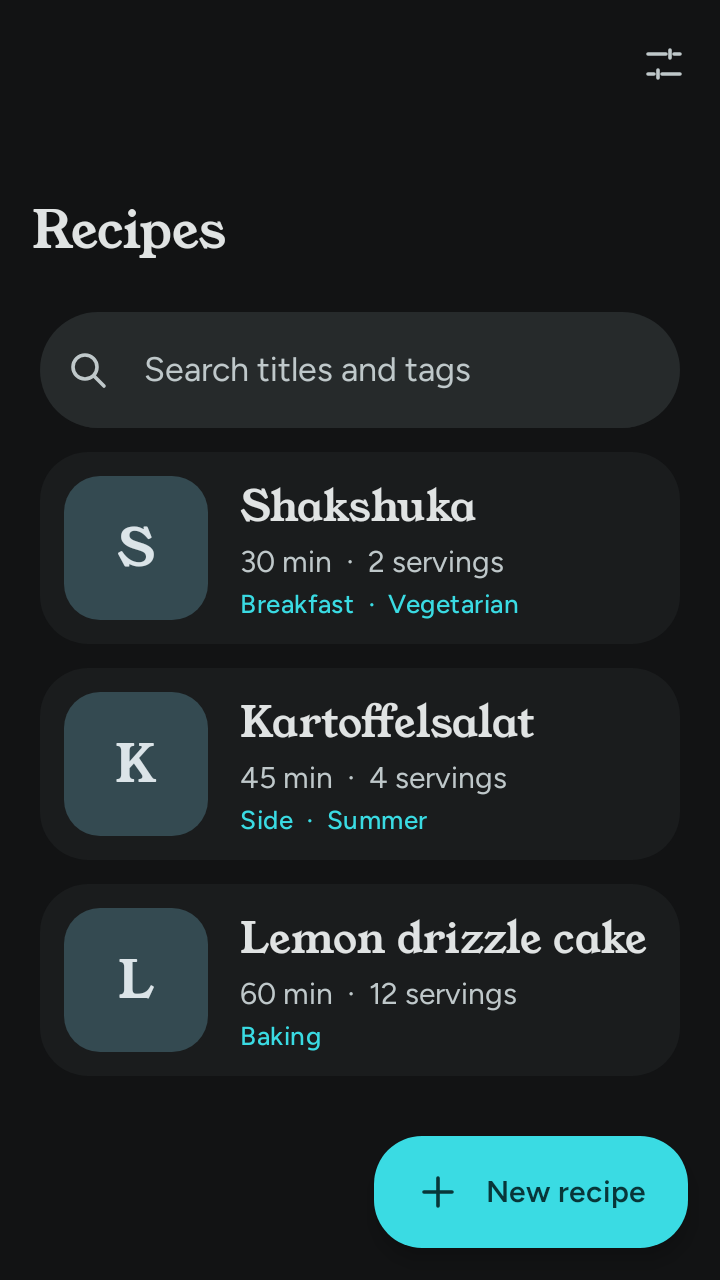
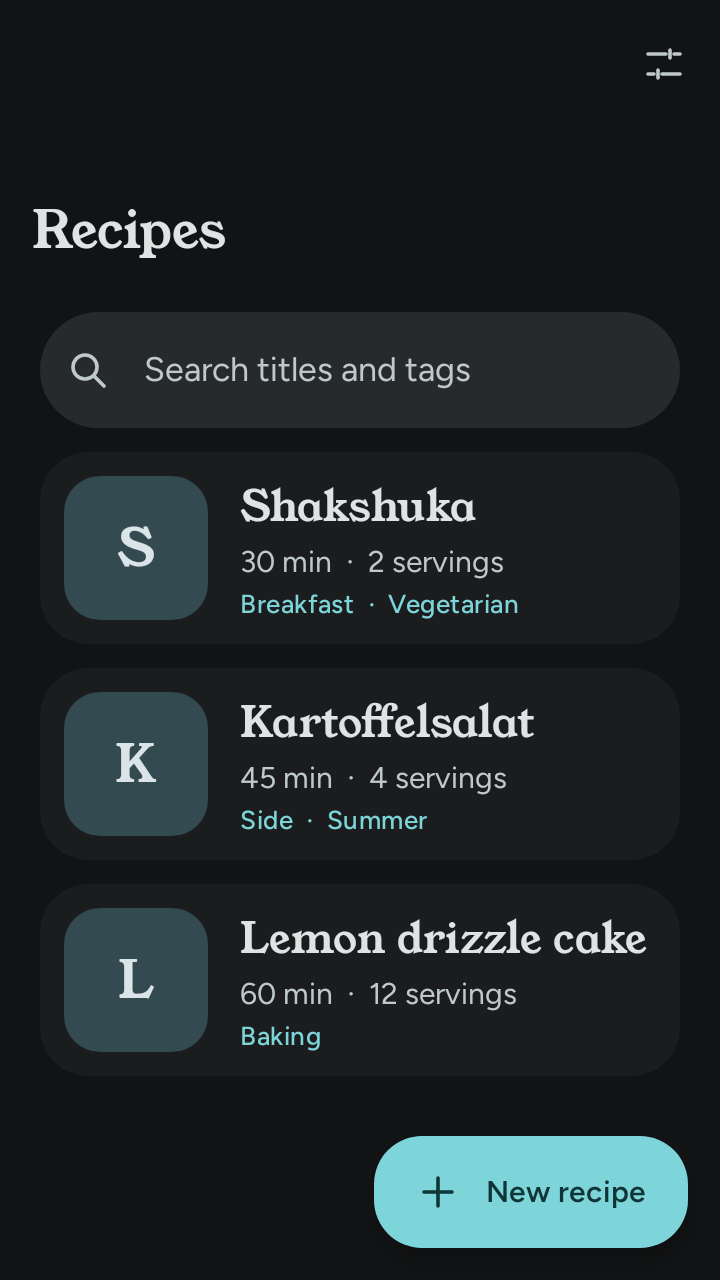
Make system bars and the launch window follow the app theme; calm Ocean dark
Android: enableEdgeToEdge styles come from the appearance preference and
change with it; the launch window has a paper background with a night
counterpart. iOS: the window's interface style follows the chosen mode.
Ocean's primary drops one chroma step (dark primary 7DD4D9).

diff --git a/shared/src/commonMain/kotlin/com/linux/recipes/ui/theme/MorePalettes.kt b/shared/src/commonMain/kotlin/com/linux/recipes/ui/theme/MorePalettes.kt
@@ -110,11 +110,11 @@ internal val TomatoDark = ColorScheme(
 )
 
 internal val OceanLight = ColorScheme(
-    primary = Color(0xFF10686D),
+    primary = Color(0xFF1F676B),
     onPrimary = Color(0xFFFFFFFF),
-    primaryContainer = Color(0xFFA7EFF2),
-    onPrimaryContainer = Color(0xFF051F21),
-    inversePrimary = Color(0xFF3ADBE3),
+    primaryContainer = Color(0xFFC0EBED),
+    onPrimaryContainer = Color(0xFF091F20),
+    inversePrimary = Color(0xFF7DD4D9),
     secondary = Color(0xFF45626C),
     onSecondary = Color(0xFFFFFFFF),
     secondaryContainer = Color(0xFFDBE4E8),
@@ -129,7 +129,7 @@ internal val OceanLight = ColorScheme(
     onSurface = Color(0xFF1A1C1D),
     surfaceVariant = Color(0xFFDFE3E4),
     onSurfaceVariant = Color(0xFF3D494B),
-    surfaceTint = Color(0xFF10686D),
+    surfaceTint = Color(0xFF1F676B),
     inverseSurface = Color(0xFF2D3232),
     inverseOnSurface = Color(0xFFEFF1F1),
     error = Color(0xFFB3261E),
@@ -146,10 +146,10 @@ internal val OceanLight = ColorScheme(
     surfaceContainerHighest = Color(0xFFE0E3E3),
     surfaceContainerLow = Color(0xFFF2F4F4),
     surfaceContainerLowest = Color(0xFFFFFFFF),
-    primaryFixed = Color(0xFFA7EFF2),
-    primaryFixedDim = Color(0xFF3ADBE3),
-    onPrimaryFixed = Color(0xFF051F21),
-    onPrimaryFixedVariant = Color(0xFF0C4E52),
+    primaryFixed = Color(0xFFC0EBED),
+    primaryFixedDim = Color(0xFF7DD4D9),
+    onPrimaryFixed = Color(0xFF091F20),
+    onPrimaryFixedVariant = Color(0xFF184E51),
     secondaryFixed = Color(0xFFDBE4E8),
     secondaryFixedDim = Color(0xFFB6C9D0),
     onSecondaryFixed = Color(0xFF141D1F),
@@ -161,11 +161,11 @@ internal val OceanLight = ColorScheme(
 )
 
 internal val OceanDark = ColorScheme(
-    primary = Color(0xFF3ADBE3),
-    onPrimary = Color(0xFF083639),
-    primaryContainer = Color(0xFF0C4E52),
-    onPrimaryContainer = Color(0xFFA7EFF2),
-    inversePrimary = Color(0xFF10686D),
+    primary = Color(0xFF7DD4D9),
+    onPrimary = Color(0xFF103537),
+    primaryContainer = Color(0xFF184E51),
+    onPrimaryContainer = Color(0xFFC0EBED),
+    inversePrimary = Color(0xFF1F676B),
     secondary = Color(0xFFB6C9D0),
     onSecondary = Color(0xFF233338),
     secondaryContainer = Color(0xFF344A51),
@@ -180,7 +180,7 @@ internal val OceanDark = ColorScheme(
     onSurface = Color(0xFFE0E3E3),
     surfaceVariant = Color(0xFF3D494B),
     onSurfaceVariant = Color(0xFFBFC8CA),
-    surfaceTint = Color(0xFF3ADBE3),
+    surfaceTint = Color(0xFF7DD4D9),
     inverseSurface = Color(0xFFE0E3E3),
     inverseOnSurface = Color(0xFF2D3232),
     error = Color(0xFFF2B8B5),
@@ -197,10 +197,10 @@ internal val OceanDark = ColorScheme(
     surfaceContainerHighest = Color(0xFF303637),
     surfaceContainerLow = Color(0xFF1A1C1D),
     surfaceContainerLowest = Color(0xFF0D0E0F),
-    primaryFixed = Color(0xFFA7EFF2),
-    primaryFixedDim = Color(0xFF3ADBE3),
-    onPrimaryFixed = Color(0xFF051F21),
-    onPrimaryFixedVariant = Color(0xFF0C4E52),
+    primaryFixed = Color(0xFFC0EBED),
+    primaryFixedDim = Color(0xFF7DD4D9),
+    onPrimaryFixed = Color(0xFF091F20),
+    onPrimaryFixedVariant = Color(0xFF184E51),
     secondaryFixed = Color(0xFFDBE4E8),
     secondaryFixedDim = Color(0xFFB6C9D0),
     onSecondaryFixed = Color(0xFF141D1F),

diff --git a/androidApp/src/main/kotlin/com/linux/recipes/android/MainActivity.kt b/androidApp/src/main/kotlin/com/linux/recipes/android/MainActivity.kt
@@ -1,12 +1,20 @@
 package com.linux.recipes.android
 
+import android.content.res.Configuration
+import android.graphics.Color
 import android.os.Bundle
 import androidx.activity.ComponentActivity
+import androidx.activity.SystemBarStyle
 import androidx.activity.compose.setContent
 import androidx.activity.enableEdgeToEdge
 import androidx.compose.runtime.CompositionLocalProvider
+import androidx.compose.runtime.LaunchedEffect
+import androidx.compose.runtime.collectAsState
+import androidx.compose.runtime.getValue
+import androidx.compose.ui.platform.LocalConfiguration
 import com.linux.recipes.App
 import com.linux.recipes.LocalAppGraph
+import com.linux.recipes.ui.theme.isDark
 import io.github.vinceglb.filekit.FileKit
 import io.github.vinceglb.filekit.dialogs.init
 import java.lang.ref.WeakReference
@@ -15,17 +23,36 @@ class MainActivity : ComponentActivity() {
     private val app get() = application as RecipesApplication
 
     override fun onCreate(savedInstanceState: Bundle?) {
-        enableEdgeToEdge()
+        // Before the first frame: the stored mode, so the bar icons never start in the wrong colour.
+        systemBars(app.graph.appearance.state.value.isDark(resources.configuration.isNight()))
         super.onCreate(savedInstanceState)
         FileKit.init(this)
         app.currentActivity = WeakReference(this)
         setContent {
+            val appearance by app.graph.appearance.state.collectAsState()
+            val dark = appearance.isDark(LocalConfiguration.current.isNight())
+            LaunchedEffect(dark) { systemBars(dark) }
             CompositionLocalProvider(LocalAppGraph provides app.graph) { App(app.graph) }
         }
     }
 
+    /** Status and navigation bar icons for the app's effective mode, not the phone's; the scrims are the library defaults. */
+    private fun systemBars(dark: Boolean) = enableEdgeToEdge(
+        statusBarStyle = if (dark) SystemBarStyle.dark(Color.TRANSPARENT) else SystemBarStyle.light(Color.TRANSPARENT, Color.TRANSPARENT),
+        navigationBarStyle = if (dark) SystemBarStyle.dark(DARK_SCRIM) else SystemBarStyle.light(LIGHT_SCRIM, DARK_SCRIM),
+    )
+
+    // What `isSystemInDarkTheme()` reads; androidApp has no direct compose-foundation dependency.
+    private fun Configuration.isNight() = uiMode and Configuration.UI_MODE_NIGHT_MASK == Configuration.UI_MODE_NIGHT_YES
+
     override fun onDestroy() {
         if (app.currentActivity?.get() === this) app.currentActivity = null
         super.onDestroy()
+    }
+
+    private companion object {
+        // The values `enableEdgeToEdge()` uses by default for three-button navigation.
+        val LIGHT_SCRIM = Color.argb(0xe6, 0xFF, 0xFF, 0xFF)
+        val DARK_SCRIM = Color.argb(0x80, 0x1b, 0x1b, 0x1b)
     }
 }

diff --git a/shared/src/iosMain/kotlin/com/linux/recipes/MainViewController.kt b/shared/src/iosMain/kotlin/com/linux/recipes/MainViewController.kt
@@ -1,6 +1,11 @@
 package com.linux.recipes
 
+import androidx.compose.runtime.Composable
 import androidx.compose.runtime.CompositionLocalProvider
+import androidx.compose.runtime.LaunchedEffect
+import androidx.compose.runtime.collectAsState
+import androidx.compose.runtime.withFrameNanos
+import androidx.compose.ui.uikit.LocalUIViewController
 import androidx.compose.ui.window.ComposeUIViewController
 import com.linux.recipes.platform.AppleAuthProvider
 import com.linux.recipes.platform.KeychainSecureStore
@@ -12,7 +17,10 @@ import kotlinx.cinterop.ExperimentalForeignApi
 import platform.Foundation.NSURL
 import platform.Foundation.NSURLIsExcludedFromBackupKey
 import platform.Foundation.NSUserDomainMask
+import platform.UIKit.UIUserInterfaceStyle
 import platform.UIKit.UIViewController
+import com.linux.recipes.ui.theme.AppearanceStore
+import com.linux.recipes.ui.theme.ThemeMode
 
 private val graph: AppGraph by lazy {
     val supportDir = NSFileManager.defaultManager.URLsForDirectory(NSApplicationSupportDirectory, NSUserDomainMask).first() as NSURL
@@ -37,5 +45,29 @@ internal fun excludeCacheFromBackup(supportDir: NSURL): Boolean {
 }
 
 fun MainViewController(): UIViewController = ComposeUIViewController {
-    CompositionLocalProvider(LocalAppGraph provides graph) { App(graph) }
+    CompositionLocalProvider(LocalAppGraph provides graph) {
+        FollowAppearance(graph.appearance)
+        App(graph)
+    }
+}
+
+/**
+ * The status bar follows the app's mode: Compose Multiplatform 1.12 offers no status-bar API from Kotlin except the
+ * deprecated `ComposeUIViewControllerDelegate`, so the window's `overrideUserInterfaceStyle` is set instead; the
+ * SwiftUI host's default status bar style follows it. System mode clears the override.
+ */
+@Composable
+private fun FollowAppearance(store: AppearanceStore) {
+    val mode = store.state.collectAsState().value.mode
+    val controller = LocalUIViewController.current
+    LaunchedEffect(mode) {
+        val style = when (mode) {
+            ThemeMode.System -> UIUserInterfaceStyle.UIUserInterfaceStyleUnspecified
+            ThemeMode.Light -> UIUserInterfaceStyle.UIUserInterfaceStyleLight
+            ThemeMode.Dark -> UIUserInterfaceStyle.UIUserInterfaceStyleDark
+        }
+        // The view joins its window after the first frames.
+        while (controller.view.window == null) withFrameNanos { }
+        controller.view.window?.overrideUserInterfaceStyle = style
+    }
 }
